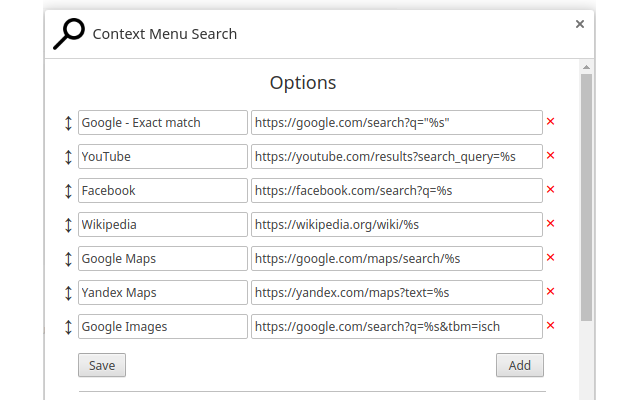
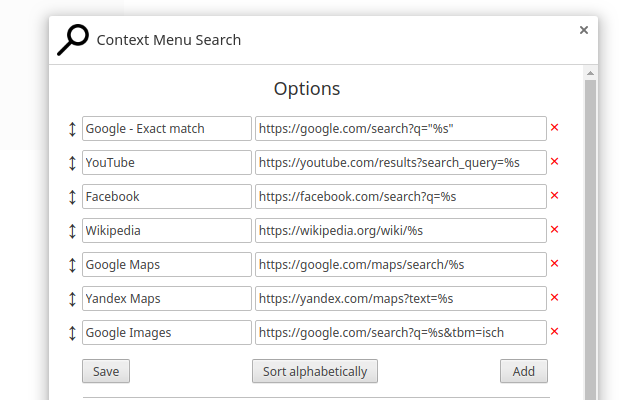
1.4.7 - added "Sort alphabetically" button

diff --git a/js/options.js b/js/options.js
@@ -22,6 +22,8 @@ window.addEventListener('DOMContentLoaded', function () {
   var addButton = document.getElementById('add-button');
   var saveButton = document.getElementById('save-button');
   var savedNotification = document.getElementById('saved-notification');
+  var sortAlphabeticallyButton =
+    document.getElementById('sort-alphabetically-button');
   var listOfExamples = document.getElementById('list-of-examples');
 
   // Initialization
@@ -157,6 +159,34 @@ window.addEventListener('DOMContentLoaded', function () {
         firstRemoveFieldsetButton.classList.remove('hidden');
         firstUpDownArrow.classList.remove('invisible');
       }
+    }
+
+  });
+
+  // Events - Sort alphabetically
+
+  sortAlphabeticallyButton.addEventListener('click', function () {
+
+    var fieldsets = listOfFieldsets.querySelectorAll('li');
+
+    var unorderedFieldsets = {};
+
+    for (var i = 0; i < fieldsets.length; i++) {
+      unorderedFieldsets[
+        fieldsets[i].querySelector('.name').value
+      ] = fieldsets[i];
+    }
+
+    var orderedFieldsets = {};
+
+    Object.keys(unorderedFieldsets).sort().forEach(function(key) {
+      orderedFieldsets[key] = unorderedFieldsets[key];
+    });
+
+    listOfFieldsets.innerHTML = '';
+
+    for (var name in orderedFieldsets) {
+      listOfFieldsets.appendChild(orderedFieldsets[name]);
     }
 
   });

diff --git a/html/options.html b/html/options.html
@@ -25,6 +25,7 @@
             Save
             <span id="saved-notification" class="hidden">Saved</span>
         </button>
+        <button id="sort-alphabetically-button">Sort alphabetically</button>
         <button id="add-button">Add</button>
     </div>
     <hr>
